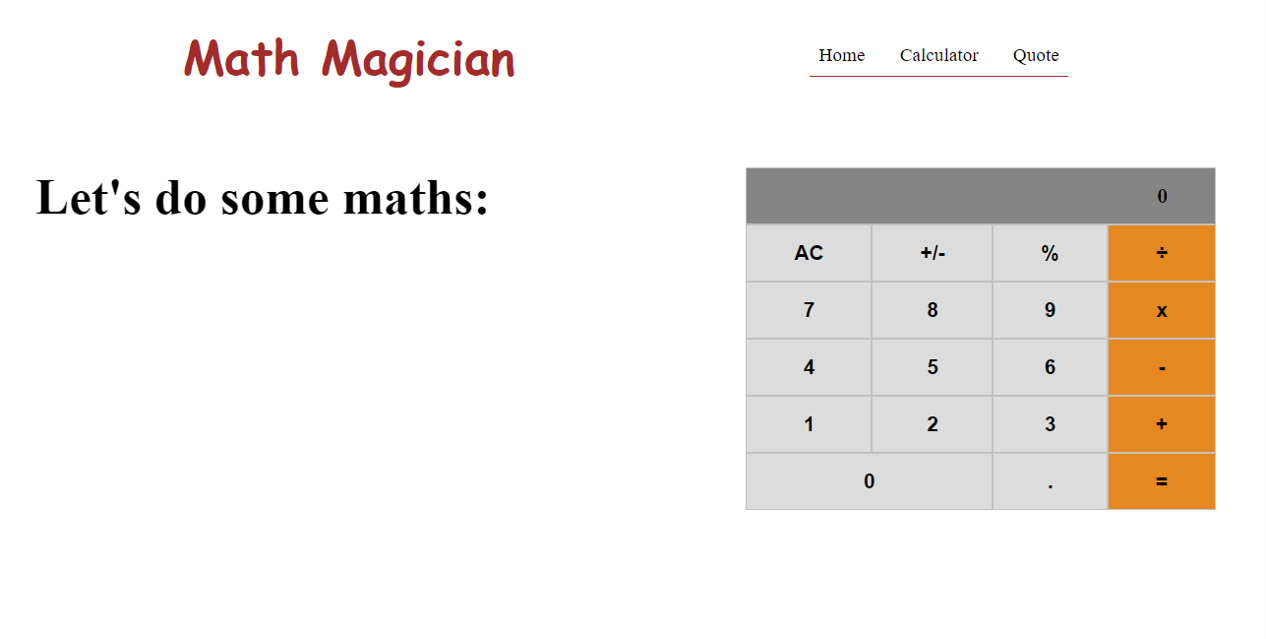
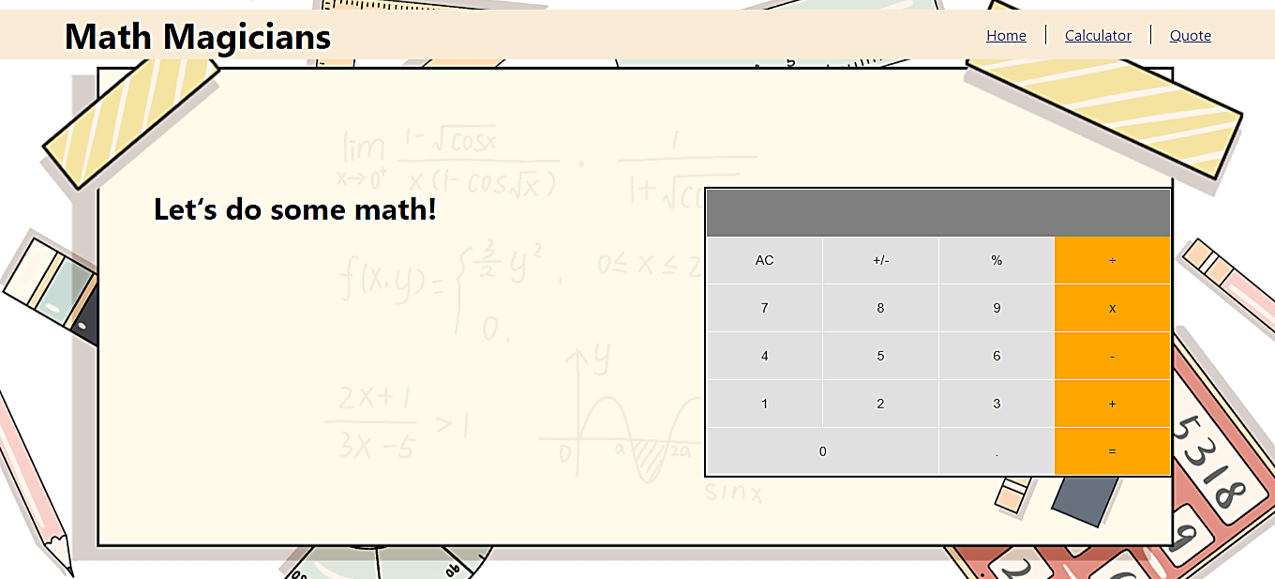
Update math magicians picture

diff --git a/index.js b/index.js
@@ -46,7 +46,7 @@ const data = [
 
   {
     name: 'Math Magicians',
-    description: "This is a webpage that shows a functional calculator with the next basic functions: Addition, Subtraction, Multiplication and Division",
+    description: "This is a SPA webpage that shows a functional calculator with the next basic functions: Addition, Subtraction, Multiplication and Division. Built with React and JavaScript",
     image: './images/calculator_img.png',
     technologies: ['HTML', 'CSS', 'Javascript', 'React'],
     liveversion: 'https://santiago-math-magicians.netlify.app',
